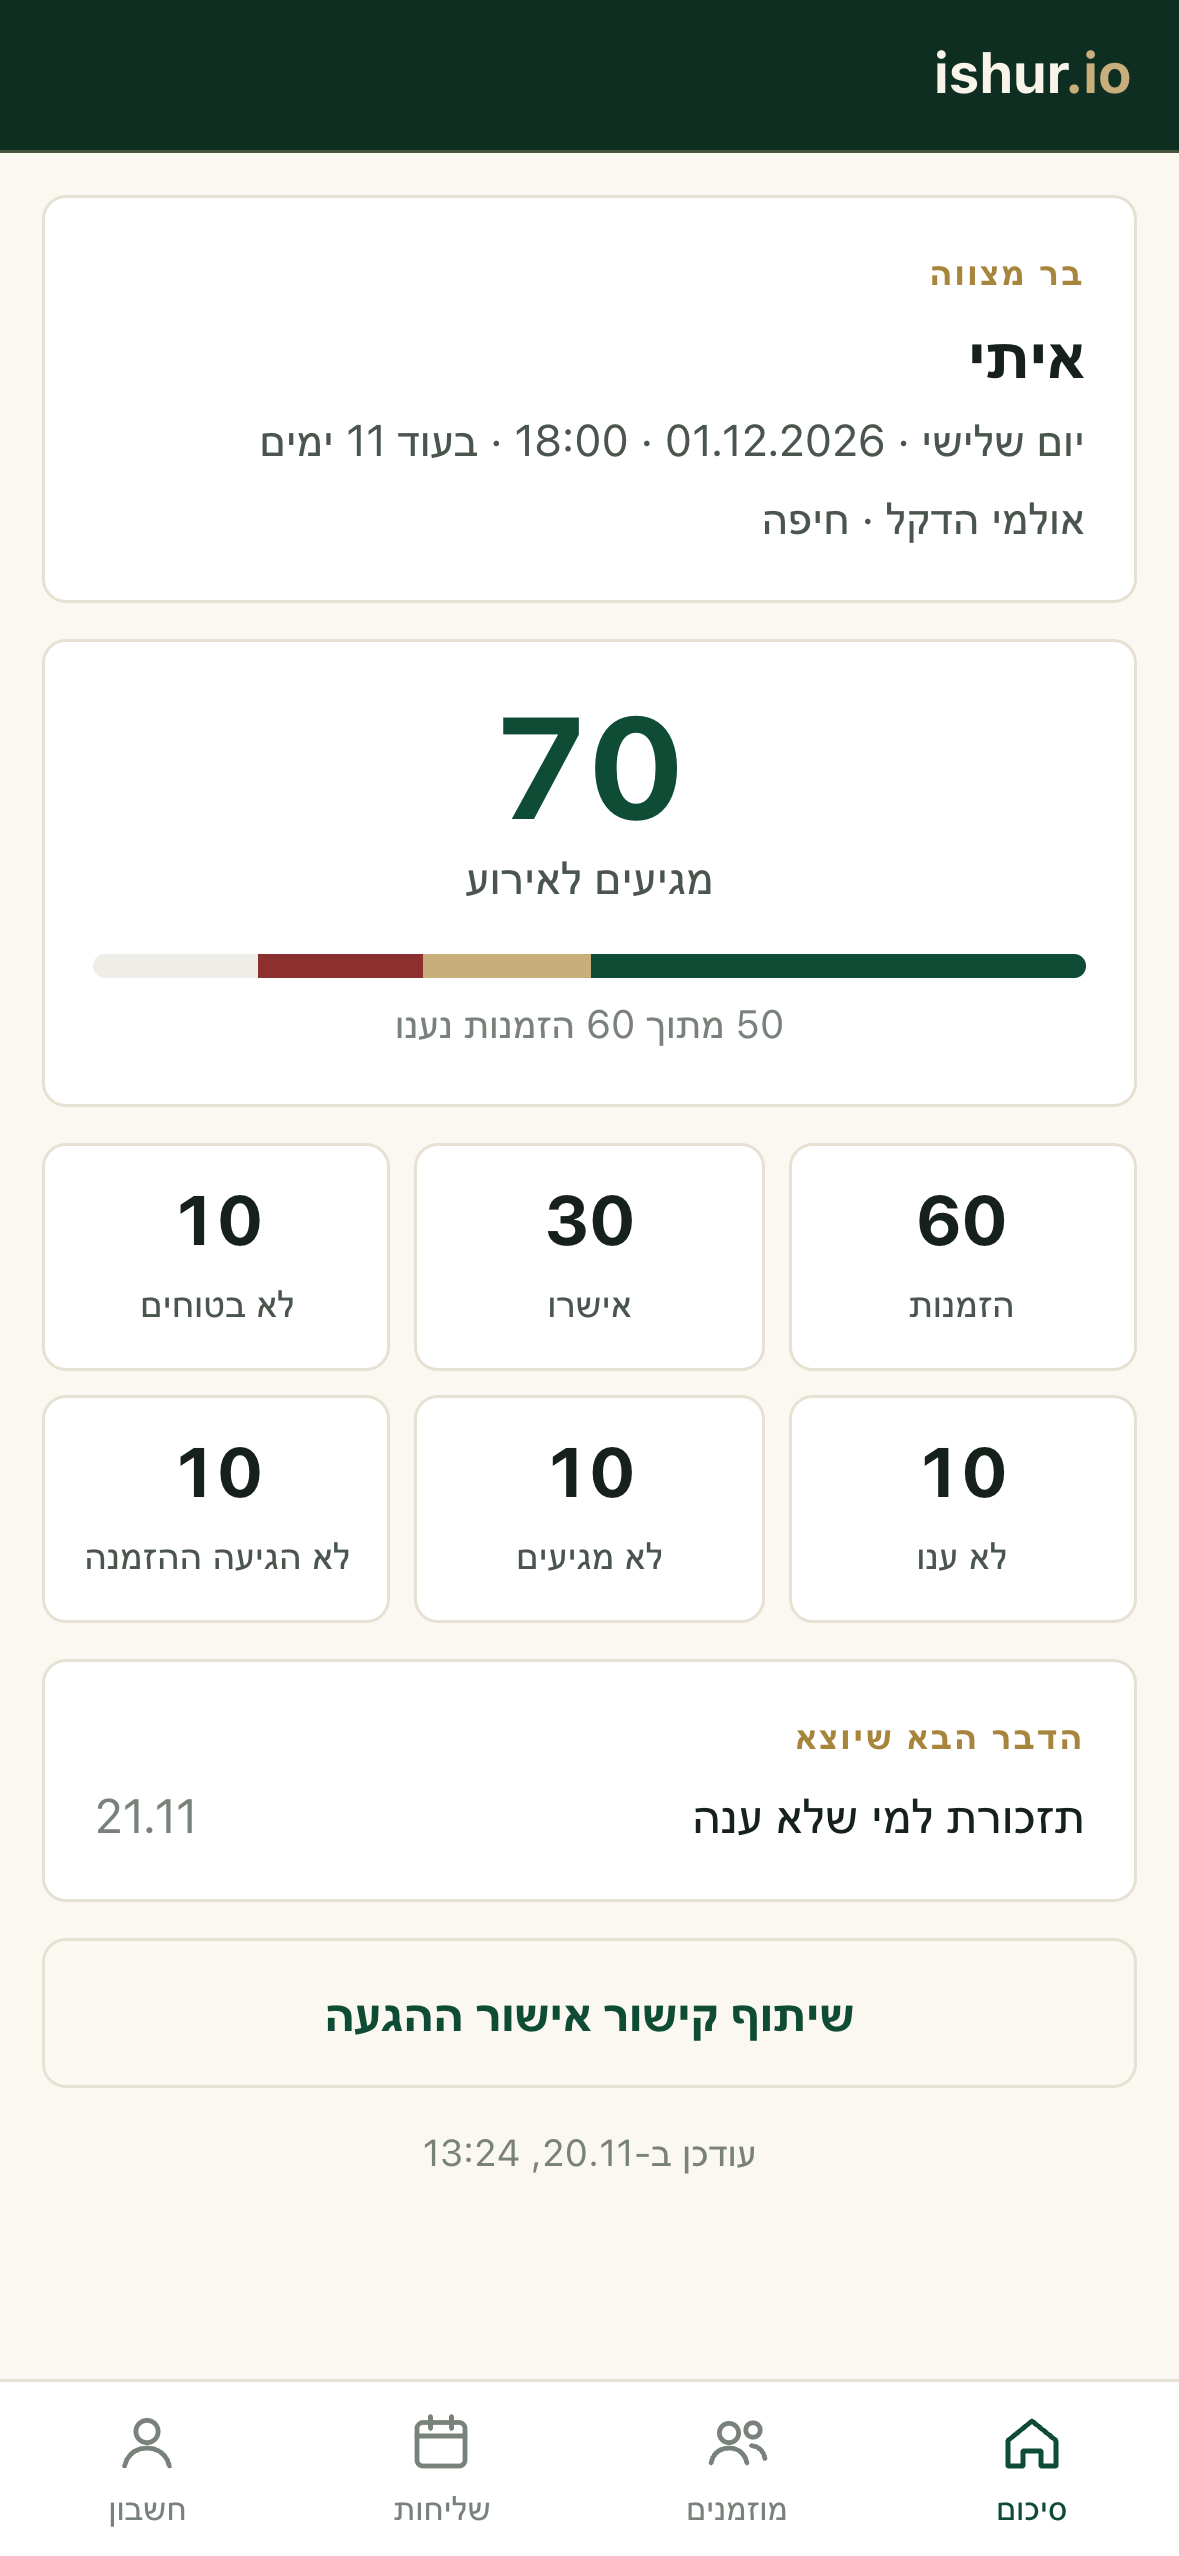
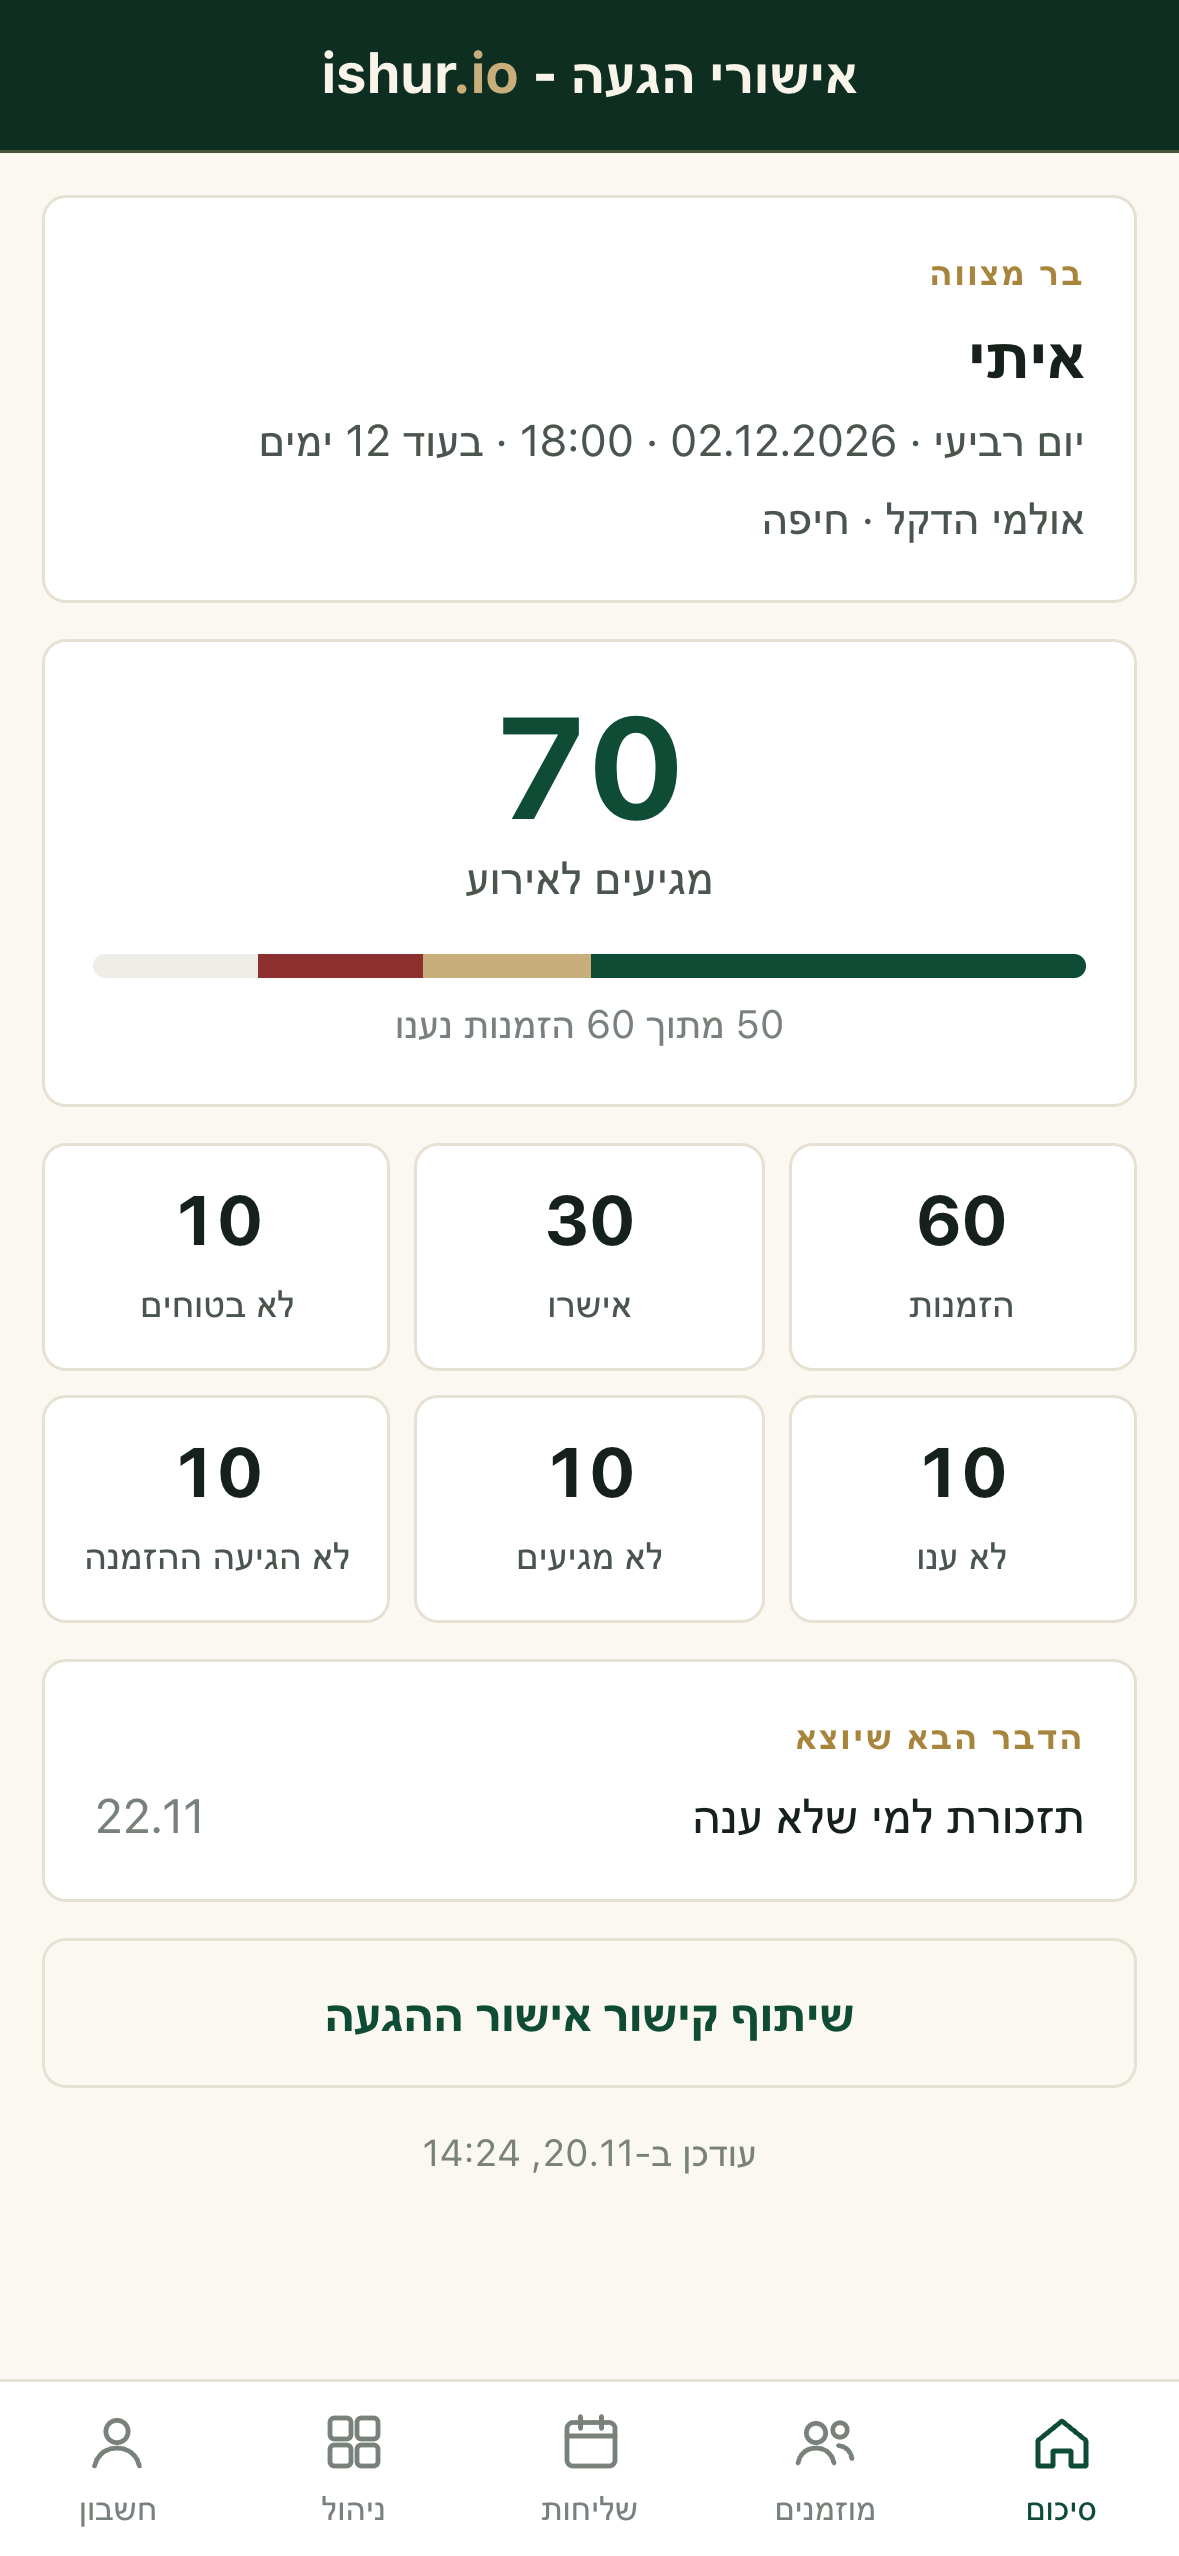
client-app: header centred, reads 'אישורי הגעה - ishur.io'

diff --git a/app/www/app.css b/app/www/app.css
@@ -26,10 +26,10 @@ a{color:var(--green)}
 
 .head{background:var(--pine);color:#F8F4EA;text-align:center;padding:calc(env(safe-area-inset-top) + 2.2rem) 1rem 1.8rem;border-bottom:1px solid rgba(199,174,122,.3)}
 .head img{display:block;margin:0 auto .5rem}
-.head.small{display:flex;align-items:center;justify-content:space-between;padding:calc(env(safe-area-inset-top) + .7rem) 1rem .7rem;position:sticky;top:0;z-index:5}
+.head.small{display:flex;align-items:center;justify-content:center;padding:calc(env(safe-area-inset-top) + .7rem) 1rem .7rem;position:sticky;top:0;z-index:5}
 .brand{font-weight:700;font-size:1.15rem;letter-spacing:.01em}
 .brand span{color:var(--gold-soft)}
-.evswitch{color:#F8F4EA;font-size:.85rem;border:1px solid rgba(199,174,122,.45);border-radius:var(--r);padding:.3rem .65rem;max-width:60%;overflow:hidden;text-overflow:ellipsis;white-space:nowrap}
+.evswitch{position:absolute;inset-inline-end:.7rem;bottom:.5rem;color:#F8F4EA;font-size:.85rem;border:1px solid rgba(199,174,122,.45);border-radius:var(--r);padding:.3rem .65rem;max-width:26%;overflow:hidden;text-overflow:ellipsis;white-space:nowrap}
 
 .view,#signin form{max-width:560px;margin:0 auto}
 .view{padding:.9rem .9rem calc(var(--tabh) + env(safe-area-inset-bottom) + 1.2rem)}

diff --git a/app/www/index.html b/app/www/index.html
@@ -14,7 +14,7 @@
 <main id="signin" hidden>
   <header class="head">
     <img src="img/logo-gold.png" alt="" width="44" height="44">
-    <div class="brand">ishur<span>.io</span></div>
+    <div class="brand">אישורי הגעה - <bdi>ishur<span>.io</span></bdi></div>
   </header>
   <form class="card" id="signinForm" novalidate>
     <h1>כניסה ללוח האירוע</h1>
@@ -32,7 +32,7 @@
 <!-- signed in -->
 <div id="app" hidden>
   <header class="head small">
-    <div class="brand">ishur<span>.io</span></div>
+    <div class="brand">אישורי הגעה - <bdi>ishur<span>.io</span></bdi></div>
     <button id="evSwitch" class="evswitch" type="button" hidden></button>
   </header>
 

diff --git a/app/RUNBOOK.md b/app/RUNBOOK.md
@@ -16,7 +16,7 @@ cd app
 STAGING_SECRETS=/path/to/worker/.staging.secrets PLAYWRIGHT_PATH=/path/to/playwright/index.mjs npm run check
 DEMO=2 ... npm run check        # the demo client with mixed answers
 ```
-Exit 0 and "28/28 passed" is the pass. The script first clears the staging sign-in counters (6 tries an hour per
+Exit 0 and "29/29 passed" is the pass. The script first clears the staging sign-in counters (6 tries an hour per
 phone); that reset exists on staging only. Screenshots land in `test/shots/`.
 
 ## Build for a store
